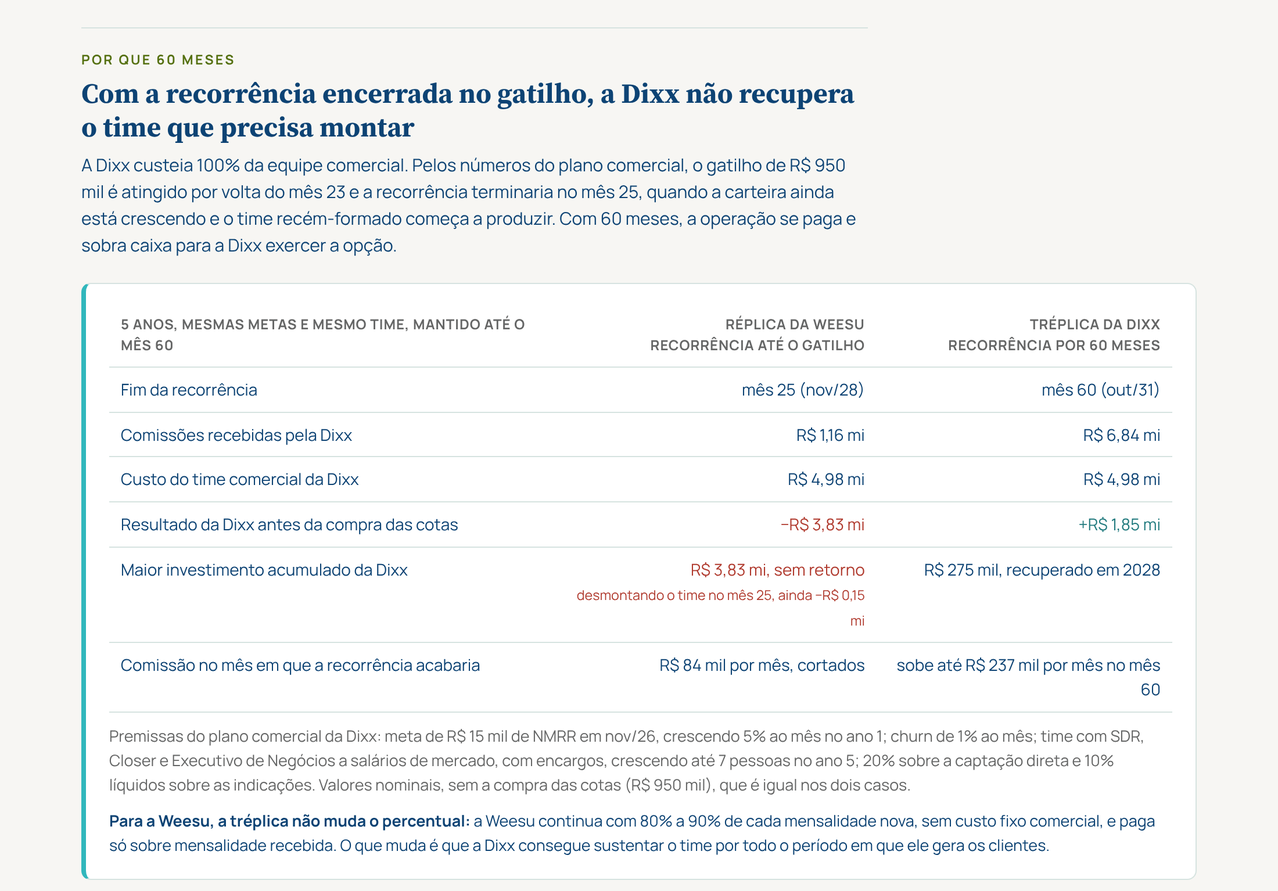
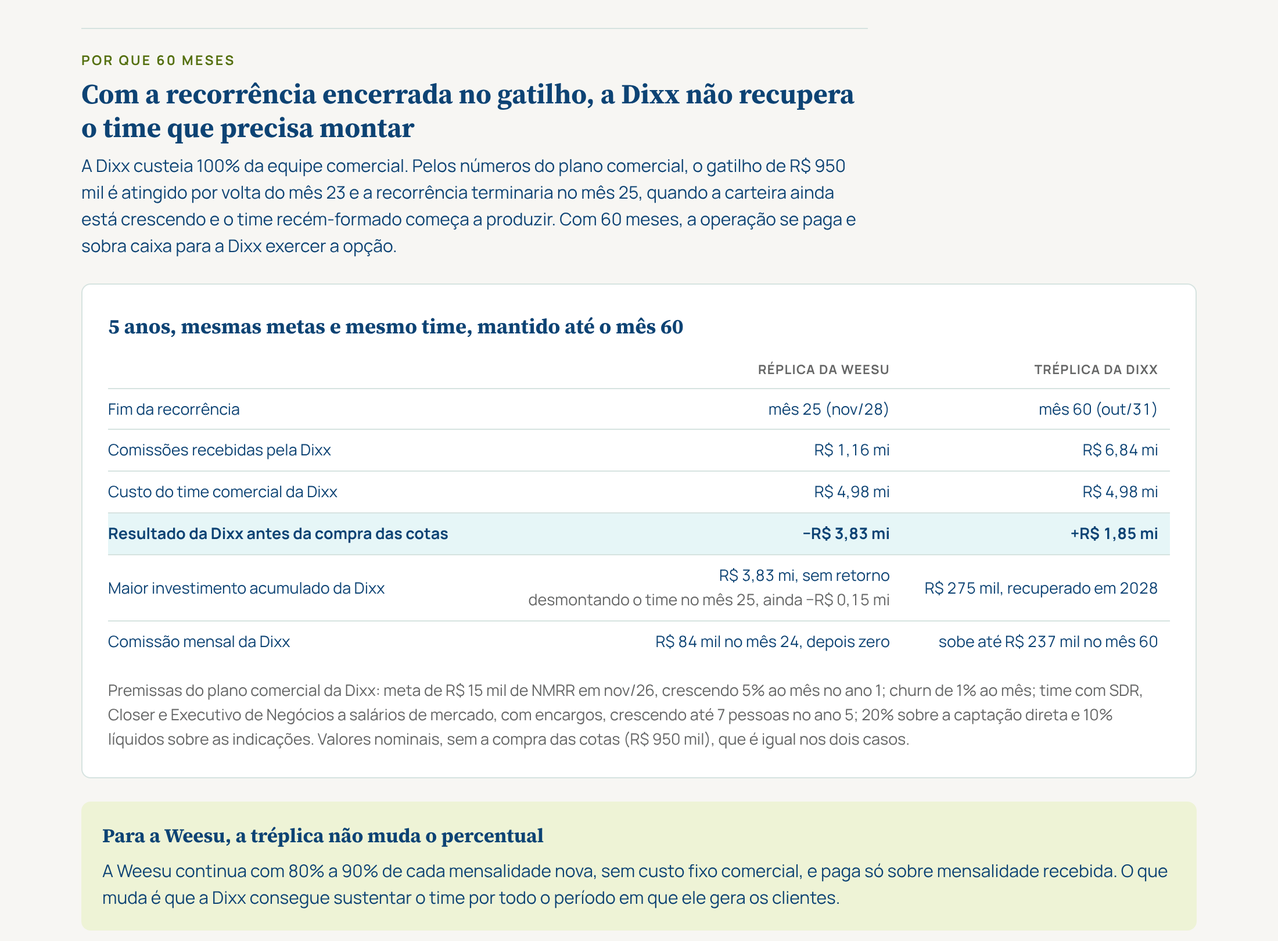
Tréplica volta à estrutura visual original da proposta da Weesu
Claude-Session: https://claude.ai/code/session_01Kbu7tZFgbQQE4WdNVw18PS

Changed region(s): [[0.0618, 0.0613, 0.9582, 1.0], [0.7418, 0.337, 0.9273, 0.3983]]

diff --git a/propostas/treplica-dixx.html b/propostas/treplica-dixx.html
@@ -102,18 +102,6 @@ table.t{width:100%;border-collapse:collapse;font-size:13.5px;font-variant-numeri
 footer{font-size:12.5px;color:var(--muted);border-top:1px solid var(--line);padding-top:14px}
 @media (max-width:860px){.keys,.steps{grid-template-columns:repeat(2,minmax(0,1fr))}.three{grid-template-columns:minmax(0,1fr)}.sim{grid-template-columns:minmax(0,1fr)}}
 @media (max-width:640px){.two,.out{grid-template-columns:minmax(0,1fr)}header.top{position:static}.wrap,.top-in{padding-left:16px;padding-right:16px}.canal{grid-template-columns:minmax(0,1fr)}.canal .pc{grid-row:auto}}
-.chg{position:relative;background:var(--gold-soft);border-radius:6px;padding:10px 12px!important;margin:4px 0}
-.chg-tag{display:inline-block;font-size:11px;font-weight:700;letter-spacing:.06em;text-transform:uppercase;color:var(--gold);margin-bottom:4px}
-.old{display:block;margin-top:6px;font-size:13px;color:var(--muted);text-decoration:line-through}
-.tre{border:1px solid var(--line);border-left:4px solid var(--teal);background:var(--surface);border-radius:8px;padding:18px 20px;display:flex;flex-direction:column;gap:10px}
-.tre table{width:100%;border-collapse:collapse;font-size:14px}
-.tre th,.tre td{padding:8px 10px;border-bottom:1px solid var(--line);text-align:right;vertical-align:top}
-.tre th:first-child,.tre td:first-child{text-align:left}
-.tre th{font-size:12px;letter-spacing:.04em;text-transform:uppercase;color:var(--muted);font-weight:700}
-.tre .neg{color:#B03A2E}.tre .pos{color:var(--accent)}
-.tre-scroll{overflow-x:auto}
-@media (prefers-color-scheme: dark){ :root:not([data-theme="light"]) .tre .neg{color:#F08C80} }
-:root[data-theme="dark"] .tre .neg{color:#F08C80}
 </style></head><body>
 <header class="top"><div class="top-in">
[1 lines of base64/hex data omitted]
@@ -123,7 +111,7 @@ footer{font-size:12.5px;color:var(--muted);border-top:1px solid var(--line);padd
     <button class="tab" role="tab" data-t="produtos" aria-selected="false">Produtos</button>
   </nav>
 </div></header>
-<main class="wrap" id="main"><div class="cover"><span class="eyebrow">Tréplica da Dixx</span><h2>Aceitamos o item 1 como proposto pela Weesu e pedimos de volta os 60 meses de recorrência combinados no início</h2><p>A Dixx mantém integralmente as premissas do item 1 da proposta da Weesu: 20% sobre clientes originados pela Dixx, 10% sobre clientes originados pela Weesu, base de cálculo, regras de origem, parceiros, base atual, apuração e a revenda de licenças Omie. A única mudança é a vigência: a comissão recorrente volta a valer por 60 meses, como combinado inicialmente, e deixa de se encerrar com a opção de compra. Os trechos alterados estão destacados.</p></div><div class="keys"><div class="key"><b>20%</b><span>sobre a mensalidade de clientes originados pela Dixx</span></div><div class="key"><b>10%</b><span>sobre a mensalidade de clientes originados pela Weesu</span></div><div class="key"><b>5%</b><span>opção de compra por R$ 950.000, valuation de R$ 19 mi</span></div><div class="key"><b>60 meses</b><span>de comissão recorrente, com ou sem o exercício da opção</span></div></div><div class="sec"><span class="eyebrow">1 · Remuneração</span><h3>Dois canais, definidos pela origem do cliente</h3><p>A remuneração incide sobre a mensalidade dos clientes conquistados pela Dixx a partir da assinatura e varia conforme a parte que originou o contato.</p></div><div class="two"><div class="canal"><span class="pc">20%</span><h4>Cliente originado pela Dixx</h4><p class="small">Oportunidades prospectadas pela Dixx, por iniciativa própria ou por meio de parceiros trazidos por ela.</p></div><div class="canal"><span class="pc">10%</span><h4>Cliente originado pela Weesu</h4><p class="small">Oportunidades geradas pela Weesu (marketing, indicações da base de clientes, parceiros da Weesu e visitas à operação da Usee) e conduzidas pela Dixx até o fechamento.</p></div></div><div class="card"><h4>Condições</h4><ol class="cl"><li data-n="1.1"><span><b>Base de cálculo</b>Valor bruto da mensalidade efetivamente recebida pela Weesu, sem dedução de impostos. Os valores de implantação pertencem integralmente à Weesu.</span></li><li data-n="1.2"><span><b>Cancelamento e inadimplência</b>O cancelamento do cliente encerra a comissão correspondente. Mensalidades não recebidas não geram comissão.</span></li><li data-n="1.3"><span><b>Origem do cliente</b>Definida pelo primeiro registro no CRM compartilhado entre as partes. Eventuais divergências são resolvidas pelos sócios na reunião mensal de acompanhamento.</span></li><li data-n="1.4"><span><b>Parceiros indicadores</b>Eventual remuneração de parceiros é de responsabilidade da parte que os trouxe, dentro do seu próprio percentual.</span></li><li data-n="1.5"><span><b>Base atual</b>Os clientes ativos da Weesu na data de assinatura não geram comissão.</span></li><li data-n="1.6" class="chg"><span><span class="chg-tag">Alterado na tréplica</span><b>Vigência</b>A comissão recorrente vigora por 60 meses contados da assinatura, como combinado inicialmente entre as partes, independentemente do exercício da opção de compra (seção 2).<s class="old">Réplica da Weesu: A comissão recorrente vigora até o exercício da opção de compra ou até o fim do período de carência, o que ocorrer primeiro (seção 2).</s></span></li><li data-n="1.7"><span><b>Apuração e pagamento</b>A Weesu apura mensalmente os pagamentos recebidos dos clientes, e a comissão correspondente é paga à Dixx no mês subsequente ao da apuração.</span></li></ol></div><div class="card"><h4>Revenda de licenças do ERP Omie</h4><ol class="cl"><li data-n="1.8"><span><b>Aquisição e revenda</b>As licenças do ERP Omie vendidas aos clientes são adquiridas pela Weesu a preço de custo e revendidas por ela.</span></li><li data-n="1.9"><span><b>Divisão do resultado</b>O lucro gerado na revenda, correspondente ao valor de venda deduzidos o custo de aquisição e os impostos incidentes sobre a revenda, é dividido em partes iguais entre Weesu e Dixx, com a mesma rotina de apuração e pagamento da cláusula 1.7.</span></li></ol></div><div class="sec"><span class="eyebrow">2 · Participação societária</span><h3>Opção de compra de 5% da Weesu</h3><p>A Dixx poderá adquirir 5% do capital da Weesu ao valuation de R$ 19.000.000, no valor de R$ 950.000. A opção é liberada quando as comissões pagas pela Weesu à Dixx somarem R$ 950.000, valor equivalente ao das cotas. Ao se tornar sócia, a Dixx passa a participar do crescimento da Weesu por meio da valorização da empresa, <b>e a comissão recorrente segue até completar os 60 meses de vigência</b>.</p></div><div class="steps"><div class="step"><span class="n">1</span><h4>Assinatura</h4><p class="small">Início da remuneração recorrente pelos dois canais.</p></div><div class="step"><span class="n">2</span><h4>Gatilho de R$ 950 mil</h4><p class="small">Comissões pagas acumuladas atingem o valor das cotas, em até 24 meses.</p></div><div class="step"><span class="n">3</span><h4>Carência de 60 dias</h4><p class="small">Prazo para a Dixx exercer a opção de compra.</p></div><div class="step chg"><span class="n">4</span><span class="chg-tag">Alterado na tréplica</span><h4>Recorrência até o mês 60</h4><p class="small">A comissão segue por 60 meses contados da assinatura, com ou sem o exercício da opção. Sem o gatilho, a opção vale pelo saldo proporcional.</p></div></div><div class="card"><h4>Condições</h4><ol class="cl"><li data-n="2.1"><span><b>Objeto e preço</b>5% do capital social da Weesu, ao valuation de R$ 19.000.000, totalizando R$ 950.000.</span></li><li data-n="2.2"><span><b>Gatilho</b>A opção se constitui quando o acumulado de comissões efetivamente pagas pela Weesu à Dixx atingir R$ 950.000.</span></li><li data-n="2.3"><span><b>Prazo e carência</b>O gatilho deve ser atingido em até 24 meses contados da assinatura. Atingido o gatilho, a Dixx dispõe de 60 dias de carência para exercer a opção.</span></li><li data-n="2.4" class="chg"><span><span class="chg-tag">Alterado na tréplica</span><b>Recorrência mantida</b>O exercício da opção não encerra a comissão recorrente, que segue até o fim dos 60 meses de vigência (cláusula 1.6). O fim dos 60 dias de carência encerra apenas o prazo para exercer a opção.<s class="old">Réplica da Weesu: O exercício da opção encerra a comissão recorrente. Decorridos os 60 dias de carência, a recorrência se encerra independentemente do exercício.</s></span></li><li data-n="2.5" class="chg"><span><span class="chg-tag">Alterado na tréplica</span><b>Gatilho não atingido</b>Não atingido o gatilho em 24 meses, apura-se o saldo proporcional: a Dixx poderá adquirir a participação proporcional ao acumulado de comissões pagas em relação a R$ 950.000 e, a seu critério, realizar o aporte complementar para a aquisição da parte faltante, até o limite de 5%. A opção deve ser exercida nos 60 dias seguintes ao prazo; a recorrência segue até o fim dos 60 meses de vigência.<s class="old">Réplica da Weesu: (...) nos 60 dias seguintes ao prazo, ao final dos quais a recorrência se encerra.</s></span></li><li data-n="2.6"><span><b>Acordo de sócios</b>O exercício será formalizado em acordo de sócios, com regras de governança e de saída a serem negociadas entre as partes.</span></li></ol></div><div class="sec"><span class="eyebrow">Por que 60 meses</span><h3>Com a recorrência encerrada no gatilho, a Dixx não recupera o time que precisa montar</h3><p>A Dixx custeia 100% da equipe comercial. Pelos números do plano comercial, o gatilho de R$ 950 mil é atingido por volta do mês 23 e a recorrência terminaria no mês 25, quando a carteira ainda está crescendo e o time recém-formado começa a produzir. Com 60 meses, a operação se paga e sobra caixa para a Dixx exercer a opção.</p></div><div class="tre"><div class="tre-scroll"><table><thead><tr><th>5 anos, mesmas metas e mesmo time, mantido até o mês 60</th><th>Réplica da Weesu<br>recorrência até o gatilho</th><th>Tréplica da Dixx<br>recorrência por 60 meses</th></tr></thead><tbody><tr><td>Fim da recorrência</td><td>mês 25 (nov/28)</td><td>mês 60 (out/31)</td></tr><tr><td>Comissões recebidas pela Dixx</td><td>R$ 1,16 mi</td><td>R$ 6,84 mi</td></tr><tr><td>Custo do time comercial da Dixx</td><td>R$ 4,98 mi</td><td>R$ 4,98 mi</td></tr><tr><td>Resultado da Dixx antes da compra das cotas</td><td class="neg">−R$ 3,83 mi</td><td class="pos">+R$ 1,85 mi</td></tr><tr><td>Maior investimento acumulado da Dixx</td><td class="neg">R$ 3,83 mi, sem retorno<br><small>desmontando o time no mês 25, ainda −R$ 0,15 mi</small></td><td>R$ 275 mil, recuperado em 2028</td></tr><tr><td>Comissão no mês em que a recorrência acabaria</td><td>R$ 84 mil por mês, cortados</td><td>sobe até R$ 237 mil por mês no mês 60</td></tr></tbody></table></div><p class="small" style="color:var(--muted)">Premissas do plano comercial da Dixx: meta de R$ 15 mil de NMRR em nov/26, crescendo 5% ao mês no ano 1; churn de 1% ao mês; time com SDR, Closer e Executivo de Negócios a salários de mercado, com encargos, crescendo até 7 pessoas no ano 5; 20% sobre a captação direta e 10% líquidos sobre as indicações. Valores nominais, sem a compra das cotas (R$ 950 mil), que é igual nos dois casos.</p><p class="small"><b>Para a Weesu, a tréplica não muda o percentual:</b> a Weesu continua com 80% a 90% de cada mensalidade nova, sem custo fixo comercial, e paga só sobre mensalidade recebida. O que muda é que a Dixx consegue sustentar o time por todo o período em que ele gera os clientes.</p></div><div class="sec"><span class="eyebrow">3 · Responsabilidades</span><h3>Cada parte investe naquilo que domina</h3></div><div class="two"><div class="card"><h4>Dixx</h4><ul class="small" style="padding-left:18px;display:flex;flex-direction:column;gap:5px"><li>Estruturação e custeio integral da equipe comercial, cujo dimensionamento é decisão da Dixx</li><li>Processo comercial, CRM, metas e rotina de acompanhamento</li><li>Prospecção ativa e parcerias de originação de clientes</li><li>Condução das vendas das oportunidades geradas pela Weesu</li><li>Relatório mensal de resultados por canal</li></ul></div><div class="card"><h4>Weesu</h4><ul class="small" style="padding-left:18px;display:flex;flex-direction:column;gap:5px"><li>Produtos Seenc (WMS), Hub, Luwee e Weello e sua evolução</li><li>Marketing, marca e geração de demanda</li><li>Implantação, suporte e sucesso do cliente</li><li>Acesso à operação da Usee para visitas de clientes em negociação</li><li>Apuração e pagamento mensal das comissões</li></ul></div></div><div class="note"><h4>Próximos passos</h4><p>Apreciação desta tréplica pela Weesu, reunião entre os sócios para alinhamento dos pontos em aberto e formalização em contrato de parceria comercial com instrumento de opção de compra, elaborado pelas assessorias jurídicas das partes.</p></div><footer>Dixx · tréplica à proposta de parceria comercial da Weesu · outubro de 2026. Documento para discussão entre as partes, sem efeito contratual até a assinatura dos instrumentos definitivos.</footer></main>
+<main class="wrap" id="main"><div class="cover"><span class="eyebrow">Tréplica da Dixx</span><h2>Aceitamos o item 1 como proposto pela Weesu e pedimos de volta os 60 meses de recorrência combinados no início</h2><p>A Dixx mantém integralmente as premissas do item 1 da proposta da Weesu: 20% sobre clientes originados pela Dixx, 10% sobre clientes originados pela Weesu, base de cálculo, regras de origem, parceiros, base atual, apuração e a revenda de licenças Omie. A única mudança é a vigência: a comissão recorrente volta a valer por 60 meses, como combinado inicialmente, e deixa de se encerrar com a opção de compra.</p></div><div class="keys"><div class="key"><b>20%</b><span>sobre a mensalidade de clientes originados pela Dixx</span></div><div class="key"><b>10%</b><span>sobre a mensalidade de clientes originados pela Weesu</span></div><div class="key"><b>5%</b><span>opção de compra por R$ 950.000, valuation de R$ 19 mi</span></div><div class="key"><b>60 meses</b><span>de comissão recorrente, com ou sem o exercício da opção</span></div></div><div class="sec"><span class="eyebrow">1 · Remuneração</span><h3>Dois canais, definidos pela origem do cliente</h3><p>A remuneração incide sobre a mensalidade dos clientes conquistados pela Dixx a partir da assinatura e varia conforme a parte que originou o contato.</p></div><div class="two"><div class="canal"><span class="pc">20%</span><h4>Cliente originado pela Dixx</h4><p class="small">Oportunidades prospectadas pela Dixx, por iniciativa própria ou por meio de parceiros trazidos por ela.</p></div><div class="canal"><span class="pc">10%</span><h4>Cliente originado pela Weesu</h4><p class="small">Oportunidades geradas pela Weesu (marketing, indicações da base de clientes, parceiros da Weesu e visitas à operação da Usee) e conduzidas pela Dixx até o fechamento.</p></div></div><div class="card"><h4>Condições</h4><ol class="cl"><li data-n="1.1"><span><b>Base de cálculo</b>Valor bruto da mensalidade efetivamente recebida pela Weesu, sem dedução de impostos. Os valores de implantação pertencem integralmente à Weesu.</span></li><li data-n="1.2"><span><b>Cancelamento e inadimplência</b>O cancelamento do cliente encerra a comissão correspondente. Mensalidades não recebidas não geram comissão.</span></li><li data-n="1.3"><span><b>Origem do cliente</b>Definida pelo primeiro registro no CRM compartilhado entre as partes. Eventuais divergências são resolvidas pelos sócios na reunião mensal de acompanhamento.</span></li><li data-n="1.4"><span><b>Parceiros indicadores</b>Eventual remuneração de parceiros é de responsabilidade da parte que os trouxe, dentro do seu próprio percentual.</span></li><li data-n="1.5"><span><b>Base atual</b>Os clientes ativos da Weesu na data de assinatura não geram comissão.</span></li><li data-n="1.6"><span><b>Vigência</b>A comissão recorrente vigora por 60 meses contados da assinatura, como combinado inicialmente entre as partes, independentemente do exercício da opção de compra (seção 2).</span></li><li data-n="1.7"><span><b>Apuração e pagamento</b>A Weesu apura mensalmente os pagamentos recebidos dos clientes, e a comissão correspondente é paga à Dixx no mês subsequente ao da apuração.</span></li></ol></div><div class="card"><h4>Revenda de licenças do ERP Omie</h4><ol class="cl"><li data-n="1.8"><span><b>Aquisição e revenda</b>As licenças do ERP Omie vendidas aos clientes são adquiridas pela Weesu a preço de custo e revendidas por ela.</span></li><li data-n="1.9"><span><b>Divisão do resultado</b>O lucro gerado na revenda, correspondente ao valor de venda deduzidos o custo de aquisição e os impostos incidentes sobre a revenda, é dividido em partes iguais entre Weesu e Dixx, com a mesma rotina de apuração e pagamento da cláusula 1.7.</span></li></ol></div><div class="sec"><span class="eyebrow">2 · Participação societária</span><h3>Opção de compra de 5% da Weesu</h3><p>A Dixx poderá adquirir 5% do capital da Weesu ao valuation de R$ 19.000.000, no valor de R$ 950.000. A opção é liberada quando as comissões pagas pela Weesu à Dixx somarem R$ 950.000, valor equivalente ao das cotas. Ao se tornar sócia, a Dixx passa a participar do crescimento da Weesu por meio da valorização da empresa, <b>e a comissão recorrente segue até completar os 60 meses de vigência</b>.</p></div><div class="steps"><div class="step"><span class="n">1</span><h4>Assinatura</h4><p class="small">Início da remuneração recorrente pelos dois canais.</p></div><div class="step"><span class="n">2</span><h4>Gatilho de R$ 950 mil</h4><p class="small">Comissões pagas acumuladas atingem o valor das cotas, em até 24 meses.</p></div><div class="step"><span class="n">3</span><h4>Carência de 60 dias</h4><p class="small">Prazo para a Dixx exercer a opção de compra.</p></div><div class="step"><span class="n">4</span><h4>Recorrência até o mês 60</h4><p class="small">A comissão segue por 60 meses contados da assinatura, com ou sem o exercício da opção. Sem o gatilho, a opção vale pelo saldo proporcional.</p></div></div><div class="card"><h4>Condições</h4><ol class="cl"><li data-n="2.1"><span><b>Objeto e preço</b>5% do capital social da Weesu, ao valuation de R$ 19.000.000, totalizando R$ 950.000.</span></li><li data-n="2.2"><span><b>Gatilho</b>A opção se constitui quando o acumulado de comissões efetivamente pagas pela Weesu à Dixx atingir R$ 950.000.</span></li><li data-n="2.3"><span><b>Prazo e carência</b>O gatilho deve ser atingido em até 24 meses contados da assinatura. Atingido o gatilho, a Dixx dispõe de 60 dias de carência para exercer a opção.</span></li><li data-n="2.4"><span><b>Recorrência mantida</b>O exercício da opção não encerra a comissão recorrente, que segue até o fim dos 60 meses de vigência (cláusula 1.6). O fim dos 60 dias de carência encerra apenas o prazo para exercer a opção.</span></li><li data-n="2.5"><span><b>Gatilho não atingido</b>Não atingido o gatilho em 24 meses, apura-se o saldo proporcional: a Dixx poderá adquirir a participação proporcional ao acumulado de comissões pagas em relação a R$ 950.000 e, a seu critério, realizar o aporte complementar para a aquisição da parte faltante, até o limite de 5%. A opção deve ser exercida nos 60 dias seguintes ao prazo; a recorrência segue até o fim dos 60 meses de vigência.</span></li><li data-n="2.6"><span><b>Acordo de sócios</b>O exercício será formalizado em acordo de sócios, com regras de governança e de saída a serem negociadas entre as partes.</span></li></ol></div><div class="sec"><span class="eyebrow">Por que 60 meses</span><h3>Com a recorrência encerrada no gatilho, a Dixx não recupera o time que precisa montar</h3><p>A Dixx custeia 100% da equipe comercial. Pelos números do plano comercial, o gatilho de R$ 950 mil é atingido por volta do mês 23 e a recorrência terminaria no mês 25, quando a carteira ainda está crescendo e o time recém-formado começa a produzir. Com 60 meses, a operação se paga e sobra caixa para a Dixx exercer a opção.</p></div><div class="card"><h4>5 anos, mesmas metas e mesmo time, mantido até o mês 60</h4><div class="scroll"><table class="t"><thead><tr><th></th><th class="r">Réplica da Weesu</th><th class="r">Tréplica da Dixx</th></tr></thead><tbody><tr><td>Fim da recorrência</td><td class="r">mês 25 (nov/28)</td><td class="r">mês 60 (out/31)</td></tr><tr><td>Comissões recebidas pela Dixx</td><td class="r">R$ 1,16 mi</td><td class="r">R$ 6,84 mi</td></tr><tr><td>Custo do time comercial da Dixx</td><td class="r">R$ 4,98 mi</td><td class="r">R$ 4,98 mi</td></tr><tr class="hl"><td>Resultado da Dixx antes da compra das cotas</td><td class="r">−R$ 3,83 mi</td><td class="r">+R$ 1,85 mi</td></tr><tr><td>Maior investimento acumulado da Dixx</td><td class="r">R$ 3,83 mi, sem retorno<br><span class="small muted">desmontando o time no mês 25, ainda −R$ 0,15 mi</span></td><td class="r">R$ 275 mil, recuperado em 2028</td></tr><tr><td>Comissão mensal da Dixx</td><td class="r">R$ 84 mil no mês 24, depois zero</td><td class="r">sobe até R$ 237 mil no mês 60</td></tr></tbody></table></div><p class="small muted">Premissas do plano comercial da Dixx: meta de R$ 15 mil de NMRR em nov/26, crescendo 5% ao mês no ano 1; churn de 1% ao mês; time com SDR, Closer e Executivo de Negócios a salários de mercado, com encargos, crescendo até 7 pessoas no ano 5; 20% sobre a captação direta e 10% líquidos sobre as indicações. Valores nominais, sem a compra das cotas (R$ 950 mil), que é igual nos dois casos.</p></div><div class="note"><h4>Para a Weesu, a tréplica não muda o percentual</h4><p>A Weesu continua com 80% a 90% de cada mensalidade nova, sem custo fixo comercial, e paga só sobre mensalidade recebida. O que muda é que a Dixx consegue sustentar o time por todo o período em que ele gera os clientes.</p></div><div class="sec"><span class="eyebrow">3 · Responsabilidades</span><h3>Cada parte investe naquilo que domina</h3></div><div class="two"><div class="card"><h4>Dixx</h4><ul class="small" style="padding-left:18px;display:flex;flex-direction:column;gap:5px"><li>Estruturação e custeio integral da equipe comercial, cujo dimensionamento é decisão da Dixx</li><li>Processo comercial, CRM, metas e rotina de acompanhamento</li><li>Prospecção ativa e parcerias de originação de clientes</li><li>Condução das vendas das oportunidades geradas pela Weesu</li><li>Relatório mensal de resultados por canal</li></ul></div><div class="card"><h4>Weesu</h4><ul class="small" style="padding-left:18px;display:flex;flex-direction:column;gap:5px"><li>Produtos Seenc (WMS), Hub, Luwee e Weello e sua evolução</li><li>Marketing, marca e geração de demanda</li><li>Implantação, suporte e sucesso do cliente</li><li>Acesso à operação da Usee para visitas de clientes em negociação</li><li>Apuração e pagamento mensal das comissões</li></ul></div></div><div class="note"><h4>Próximos passos</h4><p>Apreciação desta tréplica pela Weesu, reunião entre os sócios para alinhamento dos pontos em aberto e formalização em contrato de parceria comercial com instrumento de opção de compra, elaborado pelas assessorias jurídicas das partes.</p></div><footer>Dixx · tréplica à proposta de parceria comercial da Weesu · outubro de 2026. Documento para discussão entre as partes, sem efeito contratual até a assinatura dos instrumentos definitivos.</footer></main>
 <script>
 (function(){
 'use strict';
@@ -152,7 +140,7 @@ function fator(p){ var lo=0.1,hi=6; if(simular(p,hi).gat<0) return null; for(var
 function secProposta(){
   var cotas=P.valuation*P.equity, h='';
   h+='<div class="cover"><span class="eyebrow">Tréplica da Dixx</span><h2>Aceitamos o item 1 como proposto pela Weesu e pedimos de volta os 60 meses de recorrência combinados no início</h2>'+
-   '<p>A Dixx mantém integralmente as premissas do item 1 da proposta da Weesu: '+pct(P.pDixx)+' sobre clientes originados pela Dixx, '+pct(P.pWeesu)+' sobre clientes originados pela Weesu, base de cálculo, regras de origem, parceiros, base atual, apuração e a revenda de licenças Omie. A única mudança é a vigência: a comissão recorrente volta a valer por 60 meses, como combinado inicialmente, e deixa de se encerrar com a opção de compra. Os trechos alterados estão destacados.</p></div>';
+   '<p>A Dixx mantém integralmente as premissas do item 1 da proposta da Weesu: '+pct(P.pDixx)+' sobre clientes originados pela Dixx, '+pct(P.pWeesu)+' sobre clientes originados pela Weesu, base de cálculo, regras de origem, parceiros, base atual, apuração e a revenda de licenças Omie. A única mudança é a vigência: a comissão recorrente volta a valer por 60 meses, como combinado inicialmente, e deixa de se encerrar com a opção de compra.</p></div>';
   h+='<div class="keys">'+
    '<div class="key"><b>'+pct(P.pDixx)+'</b><span>sobre a mensalidade de clientes originados pela Dixx</span></div>'+
    '<div class="key"><b>'+pct(P.pWeesu)+'</b><span>sobre a mensalidade de clientes originados pela Weesu</span></div>'+
@@ -169,7 +157,7 @@ function secProposta(){
    '<li data-n="1.3"><span><b>Origem do cliente</b>Definida pelo primeiro registro no CRM compartilhado entre as partes. Eventuais divergências são resolvidas pelos sócios na reunião mensal de acompanhamento.</span></li>'+
    '<li data-n="1.4"><span><b>Parceiros indicadores</b>Eventual remuneração de parceiros é de responsabilidade da parte que os trouxe, dentro do seu próprio percentual.</span></li>'+
    '<li data-n="1.5"><span><b>Base atual</b>Os clientes ativos da Weesu na data de assinatura não geram comissão.</span></li>'+
-   '<li data-n="1.6" class="chg"><span><span class="chg-tag">Alterado na tréplica</span><b>Vigência</b>A comissão recorrente vigora por 60 meses contados da assinatura, como combinado inicialmente entre as partes, independentemente do exercício da opção de compra (seção 2).<s class="old">Réplica da Weesu: A comissão recorrente vigora até o exercício da opção de compra ou até o fim do período de carência, o que ocorrer primeiro (seção 2).</s></span></li>'+
+   '<li data-n="1.6"><span><b>Vigência</b>A comissão recorrente vigora por 60 meses contados da assinatura, como combinado inicialmente entre as partes, independentemente do exercício da opção de compra (seção 2).</span></li>'+
    '<li data-n="1.7"><span><b>Apuração e pagamento</b>A Weesu apura mensalmente os pagamentos recebidos dos clientes, e a comissão correspondente é paga à Dixx no mês subsequente ao da apuração.</span></li></ol></div>';
   h+='<div class="card"><h4>Revenda de licenças do ERP Omie</h4><ol class="cl">'+
    '<li data-n="1.8"><span><b>Aquisição e revenda</b>As licenças do ERP Omie vendidas aos clientes são adquiridas pela Weesu a preço de custo e revendidas por ela.</span></li>'+
@@ -180,25 +168,25 @@ function secProposta(){
    '<div class="step"><span class="n">1</span><h4>Assinatura</h4><p class="small">Início da remuneração recorrente pelos dois canais.</p></div>'+
    '<div class="step"><span class="n">2</span><h4>Gatilho de '+k(P.teto)+'</h4><p class="small">Comissões pagas acumuladas atingem o valor das cotas, em até '+P.prazo+' meses.</p></div>'+
    '<div class="step"><span class="n">3</span><h4>Carência de 60 dias</h4><p class="small">Prazo para a Dixx exercer a opção de compra.</p></div>'+
-   '<div class="step chg"><span class="n">4</span><span class="chg-tag">Alterado na tréplica</span><h4>Recorrência até o mês 60</h4><p class="small">A comissão segue por 60 meses contados da assinatura, com ou sem o exercício da opção. Sem o gatilho, a opção vale pelo saldo proporcional.</p></div></div>';
+   '<div class="step"><span class="n">4</span><h4>Recorrência até o mês 60</h4><p class="small">A comissão segue por 60 meses contados da assinatura, com ou sem o exercício da opção. Sem o gatilho, a opção vale pelo saldo proporcional.</p></div></div>';
   h+='<div class="card"><h4>Condições</h4><ol class="cl">'+
    '<li data-n="2.1"><span><b>Objeto e preço</b>'+pct(P.equity)+' do capital social da Weesu, ao valuation de '+brl(P.valuation)+', totalizando '+brl(cotas)+'.</span></li>'+
    '<li data-n="2.2"><span><b>Gatilho</b>A opção se constitui quando o acumulado de comissões efetivamente pagas pela Weesu à Dixx atingir '+brl(P.teto)+'.</span></li>'+
    '<li data-n="2.3"><span><b>Prazo e carência</b>O gatilho deve ser atingido em até '+P.prazo+' meses contados da assinatura. Atingido o gatilho, a Dixx dispõe de 60 dias de carência para exercer a opção.</span></li>'+
-   '<li data-n="2.4" class="chg"><span><span class="chg-tag">Alterado na tréplica</span><b>Recorrência mantida</b>O exercício da opção não encerra a comissão recorrente, que segue até o fim dos 60 meses de vigência (cláusula 1.6). O fim dos 60 dias de carência encerra apenas o prazo para exercer a opção.<s class="old">Réplica da Weesu: O exercício da opção encerra a comissão recorrente. Decorridos os 60 dias de carência, a recorrência se encerra independentemente do exercício.</s></span></li>'+
-   '<li data-n="2.5" class="chg"><span><span class="chg-tag">Alterado na tréplica</span><b>Gatilho não atingido</b>Não atingido o gatilho em '+P.prazo+' meses, apura-se o saldo proporcional: a Dixx poderá adquirir a participação proporcional ao acumulado de comissões pagas em relação a '+brl(P.teto)+' e, a seu critério, realizar o aporte complementar para a aquisição da parte faltante, até o limite de '+pct(P.equity)+'. A opção deve ser exercida nos 60 dias seguintes ao prazo; a recorrência segue até o fim dos 60 meses de vigência.<s class="old">Réplica da Weesu: (...) nos 60 dias seguintes ao prazo, ao final dos quais a recorrência se encerra.</s></span></li>'+
+   '<li data-n="2.4"><span><b>Recorrência mantida</b>O exercício da opção não encerra a comissão recorrente, que segue até o fim dos 60 meses de vigência (cláusula 1.6). O fim dos 60 dias de carência encerra apenas o prazo para exercer a opção.</span></li>'+
+   '<li data-n="2.5"><span><b>Gatilho não atingido</b>Não atingido o gatilho em '+P.prazo+' meses, apura-se o saldo proporcional: a Dixx poderá adquirir a participação proporcional ao acumulado de comissões pagas em relação a '+brl(P.teto)+' e, a seu critério, realizar o aporte complementar para a aquisição da parte faltante, até o limite de '+pct(P.equity)+'. A opção deve ser exercida nos 60 dias seguintes ao prazo; a recorrência segue até o fim dos 60 meses de vigência.</span></li>'+
    '<li data-n="2.6"><span><b>Acordo de sócios</b>O exercício será formalizado em acordo de sócios, com regras de governança e de saída a serem negociadas entre as partes.</span></li></ol></div>';
 
   h+='<div class="sec"><span class="eyebrow">Por que 60 meses</span><h3>Com a recorrência encerrada no gatilho, a Dixx não recupera o time que precisa montar</h3><p>A Dixx custeia 100% da equipe comercial. Pelos números do plano comercial, o gatilho de '+k(P.teto)+' é atingido por volta do mês 23 e a recorrência terminaria no mês 25, quando a carteira ainda está crescendo e o time recém-formado começa a produzir. Com 60 meses, a operação se paga e sobra caixa para a Dixx exercer a opção.</p></div>';
-  h+='<div class="tre"><div class="tre-scroll"><table><thead><tr><th>5 anos, mesmas metas e mesmo time, mantido até o mês 60</th><th>Réplica da Weesu<br>recorrência até o gatilho</th><th>Tréplica da Dixx<br>recorrência por 60 meses</th></tr></thead><tbody>'+
-   '<tr><td>Fim da recorrência</td><td>mês 25 (nov/28)</td><td>mês 60 (out/31)</td></tr>'+
-   '<tr><td>Comissões recebidas pela Dixx</td><td>R$ 1,16 mi</td><td>R$ 6,84 mi</td></tr>'+
-   '<tr><td>Custo do time comercial da Dixx</td><td>R$ 4,98 mi</td><td>R$ 4,98 mi</td></tr>'+
-   '<tr><td>Resultado da Dixx antes da compra das cotas</td><td class="neg">−R$ 3,83 mi</td><td class="pos">+R$ 1,85 mi</td></tr>'+
-   '<tr><td>Maior investimento acumulado da Dixx</td><td class="neg">R$ 3,83 mi, sem retorno<br><small>desmontando o time no mês 25, ainda −R$ 0,15 mi</small></td><td>R$ 275 mil, recuperado em 2028</td></tr>'+
-   '<tr><td>Comissão no mês em que a recorrência acabaria</td><td>R$ 84 mil por mês, cortados</td><td>sobe até R$ 237 mil por mês no mês 60</td></tr>'+
-   '</tbody></table></div><p class="small" style="color:var(--muted)">Premissas do plano comercial da Dixx: meta de R$ 15 mil de NMRR em nov/26, crescendo 5% ao mês no ano 1; churn de 1% ao mês; time com SDR, Closer e Executivo de Negócios a salários de mercado, com encargos, crescendo até 7 pessoas no ano 5; '+pct(P.pDixx)+' sobre a captação direta e '+pct(P.pWeesu)+' líquidos sobre as indicações. Valores nominais, sem a compra das cotas ('+k(P.teto)+'), que é igual nos dois casos.</p>'+
-   '<p class="small"><b>Para a Weesu, a tréplica não muda o percentual:</b> a Weesu continua com '+pct(1-P.pDixx)+' a '+pct(1-P.pWeesu)+' de cada mensalidade nova, sem custo fixo comercial, e paga só sobre mensalidade recebida. O que muda é que a Dixx consegue sustentar o time por todo o período em que ele gera os clientes.</p></div>';
+  h+='<div class="card"><h4>5 anos, mesmas metas e mesmo time, mantido até o mês 60</h4><div class="scroll"><table class="t"><thead><tr><th></th><th class="r">Réplica da Weesu</th><th class="r">Tréplica da Dixx</th></tr></thead><tbody>'+
+   '<tr><td>Fim da recorrência</td><td class="r">mês 25 (nov/28)</td><td class="r">mês 60 (out/31)</td></tr>'+
+   '<tr><td>Comissões recebidas pela Dixx</td><td class="r">R$ 1,16 mi</td><td class="r">R$ 6,84 mi</td></tr>'+
+   '<tr><td>Custo do time comercial da Dixx</td><td class="r">R$ 4,98 mi</td><td class="r">R$ 4,98 mi</td></tr>'+
+   '<tr class="hl"><td>Resultado da Dixx antes da compra das cotas</td><td class="r">−R$ 3,83 mi</td><td class="r">+R$ 1,85 mi</td></tr>'+
+   '<tr><td>Maior investimento acumulado da Dixx</td><td class="r">R$ 3,83 mi, sem retorno<br><span class="small muted">desmontando o time no mês 25, ainda −R$ 0,15 mi</span></td><td class="r">R$ 275 mil, recuperado em 2028</td></tr>'+
+   '<tr><td>Comissão mensal da Dixx</td><td class="r">R$ 84 mil no mês 24, depois zero</td><td class="r">sobe até R$ 237 mil no mês 60</td></tr>'+
+   '</tbody></table></div><p class="small muted">Premissas do plano comercial da Dixx: meta de R$ 15 mil de NMRR em nov/26, crescendo 5% ao mês no ano 1; churn de 1% ao mês; time com SDR, Closer e Executivo de Negócios a salários de mercado, com encargos, crescendo até 7 pessoas no ano 5; '+pct(P.pDixx)+' sobre a captação direta e '+pct(P.pWeesu)+' líquidos sobre as indicações. Valores nominais, sem a compra das cotas ('+k(P.teto)+'), que é igual nos dois casos.</p>'+
+   '</div><div class="note"><h4>Para a Weesu, a tréplica não muda o percentual</h4><p>A Weesu continua com '+pct(1-P.pDixx)+' a '+pct(1-P.pWeesu)+' de cada mensalidade nova, sem custo fixo comercial, e paga só sobre mensalidade recebida. O que muda é que a Dixx consegue sustentar o time por todo o período em que ele gera os clientes.</p></div>';
   h+='<div class="sec"><span class="eyebrow">3 · Responsabilidades</span><h3>Cada parte investe naquilo que domina</h3></div>';
   h+='<div class="two"><div class="card"><h4>Dixx</h4><ul class="small" style="padding-left:18px;display:flex;flex-direction:column;gap:5px"><li>Estruturação e custeio integral da equipe comercial, cujo dimensionamento é decisão da Dixx</li><li>Processo comercial, CRM, metas e rotina de acompanhamento</li><li>Prospecção ativa e parcerias de originação de clientes</li><li>Condução das vendas das oportunidades geradas pela Weesu</li><li>Relatório mensal de resultados por canal</li></ul></div>'+
    '<div class="card"><h4>Weesu</h4><ul class="small" style="padding-left:18px;display:flex;flex-direction:column;gap:5px"><li>Produtos Seenc (WMS), Hub, Luwee e Weello e sua evolução</li><li>Marketing, marca e geração de demanda</li><li>Implantação, suporte e sucesso do cliente</li><li>Acesso à operação da Usee para visitas de clientes em negociação</li><li>Apuração e pagamento mensal das comissões</li></ul></div></div>';
